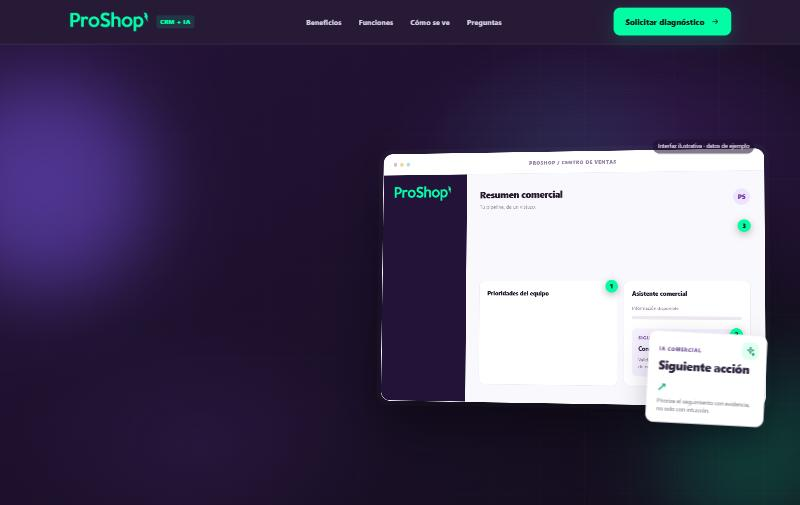
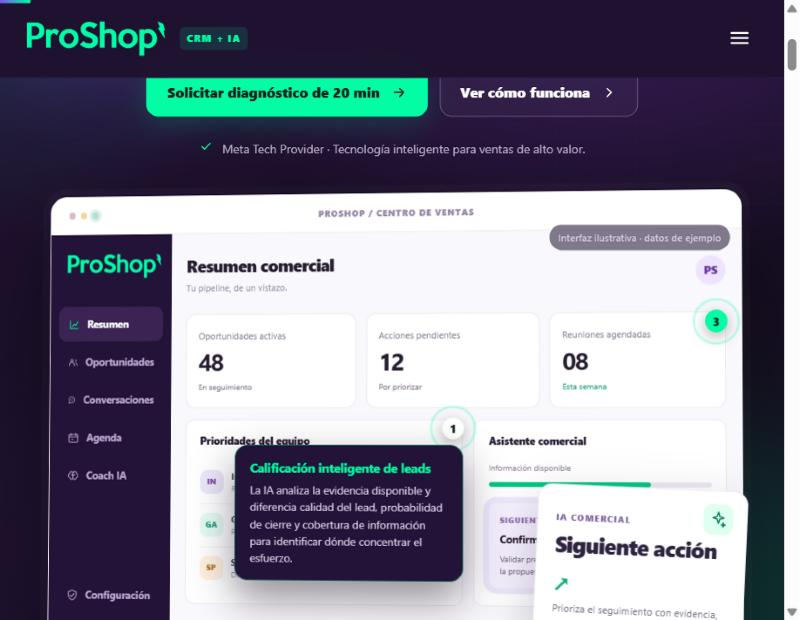
Recaptura las imagenes a escala real y anima la entrada
Las capturas se tomaban emulando un monitor de 1440px, pero el panel del
navegador solo devuelve 800px: cada imagen llegaba ya reducida al 55% y
encima el recorrido le aplicaba una lupa de 2,2x. De ahi la pixelacion.

Ahora se capturan emulando 800px, que es 1:1 con lo que devuelve el panel, y
la lupa baja a 1,8x. Las maquetaciones cambiaron al estrecharse la ventana,
asi que las dieciseis paradas llevan coordenadas nuevas. Las metricas de
INMOL tambien: el panel rota entre cuatro proyectos y la captura ya no es el
Centro Comercial Libertad sino la Urbanizacion El Encanto, con sus numeros.

Movimiento de entrada, en dos momentos y no en efectos sueltos: el hero se
arma solo al cargar en orden de lectura, y cada titulo de seccion se devela
al entrar en pantalla. El hero sale de las animaciones por scroll, donde no
debio estar nunca: al estar sobre la linea de flotacion aparecia a medio
camino segun donde quedara la pagina.

Los titulos se revelan con clip-path sobre el propio elemento, sin
envoltorios: son editables desde /?editar=1 y un contenedor extra ensuciaria
lo que guarda el editor.

diff --git a/lib/proyectos.js b/lib/proyectos.js
@@ -36,13 +36,13 @@ module.exports = [
     estado: 'desarrollo',
     imagen: '/img/proyectos/fortaleza-1.jpg',
     ancho: 800,
-    alto: 500,
+    alto: 620,
     // Paradas del recorrido guiado. x e y son el % sobre la captura donde se
     // posa la lupa; el texto explica que se esta mirando.
     puntos: [
-      { x: 58, y: 6, texto: 'La pregunta que trae alguien que acaba de chocar esta en el menu principal, no enterrada tres clics adentro.' },
-      { x: 33, y: 42, texto: 'Cuatro puertas de entrada: personales, empresas, brokers y fianzas. Cada visitante se reconoce en una y sigue por ahi.' },
-      { x: 96, y: 94, texto: 'El boton de WhatsApp queda fijo en pantalla, en cualquier pagina del sitio.' },
+      { x: 25, y: 53, texto: 'Cuatro puertas de entrada: personales, empresas, brokers y fianzas. Cada visitante se reconoce en una y sigue por ahi.' },
+      { x: 82, y: 7, texto: 'La linea gratuita, siempre arriba. En seguros la llamada suele entrar cuando algo ya paso, y nadie quiere buscar el numero.' },
+      { x: 92, y: 92, texto: 'El boton de WhatsApp queda fijo en pantalla, en cualquier pagina del sitio.' },
     ],
     boceto:
       'La portada agrupa los seguros en cuatro puertas de entrada, para que cada visitante se reconozca de inmediato y no tenga que leer un catalogo.',
@@ -69,13 +69,13 @@ module.exports = [
     estado: 'produccion',
     imagen: '/img/proyectos/crm-1.jpg',
     ancho: 800,
-    alto: 505,
+    alto: 620,
     // Paradas del recorrido guiado. x e y son el % sobre la captura donde se
     // posa la lupa; el texto explica que se esta mirando.
     puntos: [
-      { x: 66, y: 38, texto: 'El resumen comercial: todo el pipeline de un vistazo, sin abrir ni un submenu.' },
-      { x: 64, y: 58, texto: 'Prioridades del equipo: quien atiende que, sin tener que preguntarselo a nadie.' },
-      { x: 88, y: 74, texto: 'No entrega un puntaje y se lava las manos: dice que hacer ahora con esta oportunidad.' },
+      { x: 33, y: 58, texto: 'El resumen comercial: oportunidades abiertas, acciones pendientes y reuniones de la semana, sin abrir un submenu.' },
+      { x: 33, y: 71, texto: 'Prioridades del equipo: quien atiende que, sin tener que preguntarselo a nadie.' },
+      { x: 82, y: 89, texto: 'No entrega un puntaje y se lava las manos: dice que hacer ahora con esta oportunidad.' },
     ],
     boceto:
       'El centro de ventas: prioridades del equipo a la izquierda y un asistente que propone la siguiente accion concreta sobre cada oportunidad.',
@@ -101,13 +101,13 @@ module.exports = [
     estado: 'produccion',
     imagen: '/img/proyectos/agendabot-1.jpg',
     ancho: 800,
-    alto: 505,
+    alto: 620,
     // Paradas del recorrido guiado. x e y son el % sobre la captura donde se
     // posa la lupa; el texto explica que se esta mirando.
     puntos: [
-      { x: 72, y: 52, texto: 'Una cita de barberia dentro de WhatsApp: el cliente pide hora, el bot ofrece los horarios libres y confirma.' },
-      { x: 63, y: 29, texto: 'La cita queda escrita en la agenda del negocio sin que nadie la anote a mano.' },
-      { x: 86, y: 77, texto: 'El recordatorio sale solo, 24 horas antes. Menos clientes que no aparecen.' },
+      { x: 46, y: 76, texto: 'Una cita de barberia dentro de WhatsApp: el cliente pide hora, el bot le ofrece los horarios libres y cierra con el que eligio.' },
+      { x: 14, y: 48, texto: 'La cita queda escrita en la agenda del negocio sin que nadie la anote a mano.' },
+      { x: 38, y: 17, texto: 'Responde las 24 horas por la API oficial de WhatsApp, y el cliente no instala nada.' },
     ],
     boceto:
       'Una cita real de barberia: el cliente escribe, el bot ofrece los horarios libres, confirma y agenda. Todo dentro de WhatsApp, sin instalar nada.',
@@ -167,13 +167,13 @@ module.exports = [
     estado: 'produccion',
     imagen: '/img/proyectos/inmol-1.jpg',
     ancho: 800,
-    alto: 500,
+    alto: 620,
     // Paradas del recorrido guiado. x e y son el % sobre la captura donde se
     // posa la lupa; el texto explica que se esta mirando.
     puntos: [
-      { x: 30, y: 44, texto: 'El proyecto a pantalla completa, sobre una foto real del terreno a 360 grados.' },
-      { x: 20, y: 68, texto: 'Los datos duros siempre a la vista: 326 locales, 9.584 metros cuadrados, Zona Sur.' },
-      { x: 15, y: 94, texto: 'Se opera a dedo. Esta hecho para una pantalla en la sala de ventas, no para un escritorio.' },
+      { x: 30, y: 46, texto: 'El proyecto a pantalla completa, sobre una foto real del terreno a 360 grados.' },
+      { x: 28, y: 80, texto: 'Los datos duros quedan a la vista mientras se recorre: terrenos, superficie de cada lote y del total.' },
+      { x: 26, y: 97, texto: 'Se opera a dedo. Esta hecho para una pantalla en la sala de ventas, no para un escritorio.' },
     ],
     boceto:
       'El panel abre con el proyecto a pantalla completa y sus datos duros al frente. Se toca la pantalla y se recorre el terreno desde adentro.',
@@ -183,9 +183,9 @@ module.exports = [
       'pantalla completa y ve el terreno como si estuviera parado ahi.',
     // Estos numeros salen del propio panel, no son estimaciones.
     metricas: [
-      { valor: '326', etiqueta: 'locales comerciales' },
-      { valor: '9.584 m²', etiqueta: 'superficie del terreno' },
-      { valor: 'Zona Sur', etiqueta: 'Santa Cruz' },
+      { valor: '1.101', etiqueta: 'terrenos del proyecto' },
+      { valor: '64,58 ha', etiqueta: 'superficie total' },
+      { valor: '4', etiqueta: 'proyectos en el panel' },
     ],
     features: [
       'Recorrido del terreno en pantalla completa, a 360 grados',

diff --git a/public/css/landing.css b/public/css/landing.css
@@ -1675,13 +1675,77 @@ img { max-width: 100%; display: block; }
 }
 
 /* =============================================================
+   Movimiento de entrada
+   -------------------------------------------------------------
+   Dos momentos, no efectos sueltos por todas partes:
+     1. el hero se arma solo al cargar, en orden de lectura;
+     2. cada titulo de seccion se devela al entrar en pantalla.
+   Los titulos se revelan con clip-path sobre el propio elemento: son
+   editables desde /?editar=1 y envolverlos en un contenedor extra
+   ensuciaria lo que el editor guarda.
+   ============================================================= */
+@media (prefers-reduced-motion: no-preference) {
+
+  /* ---------- 1. El hero se arma al cargar ---------- */
+  .hero .tag,
+  .hero-lead,
+  .hero-cta > * {
+    animation: asomar .85s cubic-bezier(.2, .7, .2, 1) both;
+  }
+  .hero .tag { animation-delay: .06s; }
+
+  /* El titular sube desde detras de su propia linea base. Es el unico
+     elemento con tratamiento propio: el resto solo acompana. */
+  .hero-title {
+    animation: alzar 1.1s cubic-bezier(.16, .84, .3, 1) .14s both;
+  }
+
+  .hero-lead { animation-delay: .52s; }
+  .hero-cta > *:nth-child(1) { animation-delay: .62s; }
+  .hero-cta > *:nth-child(2) { animation-delay: .70s; }
+  .hero-cta > *:nth-child(3) { animation-delay: .80s; }
+
+  /* ---------- 2. Los titulos de seccion se develan al bajar ---------- */
+  @supports (animation-timeline: view()) {
+    .head h2 {
+      animation: develar both linear;
+      animation-timeline: view();
+      animation-range: entry 14% cover 26%;
+    }
+    /* El numero de seccion entra un poco antes, como quien pasa la hoja. */
+    .head .idx {
+      animation: asomar both linear;
+      animation-timeline: view();
+      animation-range: entry 8% cover 20%;
+    }
+  }
+}
+
+@keyframes asomar {
+  from { opacity: 0; transform: translateY(14px); }
+  to   { opacity: 1; transform: none; }
+}
+
+/* El recorte deja 25% de aire abajo al terminar para no cortar las colas de
+   las letras (g, j, p) mientras dura la animacion. */
+@keyframes alzar {
+  from { clip-path: inset(0 0 100% 0); transform: translateY(26px); }
+  to   { clip-path: inset(0 0 -25% 0); transform: none; }
+}
+
+@keyframes develar {
+  from { clip-path: inset(0 0 100% 0); opacity: .25; }
+  to   { clip-path: inset(0 0 -25% 0); opacity: 1; }
+}
+
+/* =============================================================
    Entrada al hacer scroll — CSS puro (scroll-driven animations).
    Sin JS: si el navegador no lo soporta, el contenido ya es visible.
    ============================================================= */
 @supports (animation-timeline: view()) {
   @media (prefers-reduced-motion: no-preference) {
     .head, .specs, .feat, .step, .proj > *, .agente-intro > *,
-    .plat-head, .plat, .plan, .packs > *, .contact > *, .hero-foot > * {
+    .plat-head, .plat, .plan, .packs > *, .contact > * {
       animation: rise both linear;
       animation-timeline: view();
       animation-range: entry 0% cover 22%;

diff --git a/public/js/landing.js b/public/js/landing.js
@@ -133,7 +133,9 @@
     if (!shot || !paradas.length || !barra || !nota || !pos) return;
 
     var actual = -1;   // -1 es la vista completa
-    var ACERCAR = 2.2; // cuanto se amplia la captura en cada parada
+    var ACERCAR = 1.8; // cuanto se amplia la captura en cada parada.
+                       // Mas que esto empasta: las capturas miden 800px de
+                       // ancho y el visor ya las muestra a casi ese tamano.
 
     /* Deja la parada en el centro del visor sin que la imagen descubra un
        hueco. Con transform-origin en la esquina, un punto que esta en la
